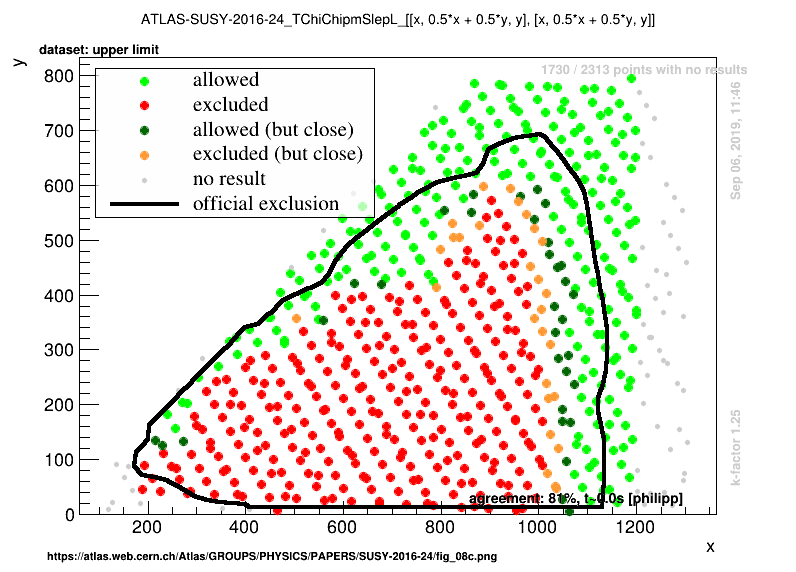
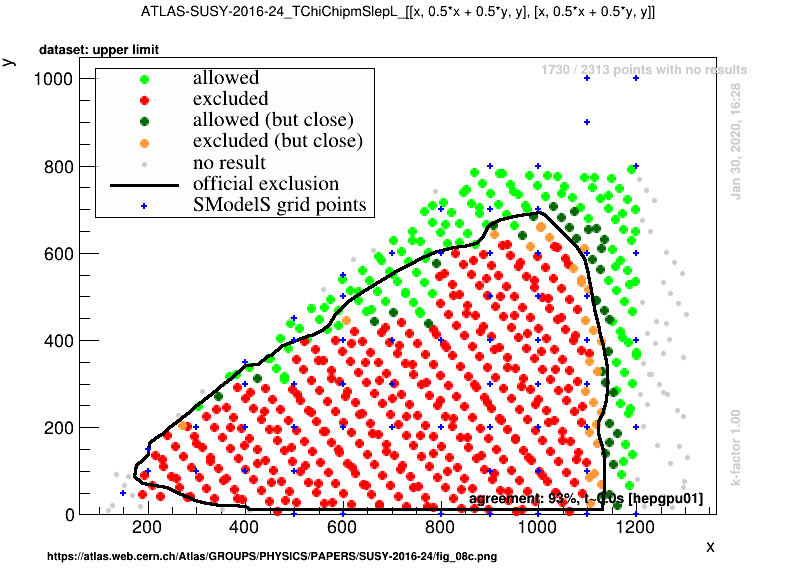
smaller issues

diff --git a/docs/ValidationUgly123phil.md b/docs/ValidationUgly123phil.md
@@ -17,7 +17,7 @@ To [official validation plots](Validation123phil)
 
 ### Run 2 - 13 TeV
  * [ATLAS upper limits](#ATLASupperlimits13): 9 analyses, 30 results
- * [ATLAS efficiency maps](#ATLASefficiencymaps13): 7 analyses, 22 results
+ * [ATLAS efficiency maps](#ATLASefficiencymaps13): 7 analyses, 24 results
 
 ### Run 1 - 8 TeV
 
@@ -43,7 +43,7 @@ To [official validation plots](Validation123phil)
 | | [T2tt](SmsDictionary123phil#T2tt)| 36.1| tbd |<a href="https://smodels.github.io/validation/123phil/13TeV/ATLAS/ATLAS-SUSY-2016-16/validation/T2tt_2EqMassAx_EqMassBy.png"><img src="https://smodels.github.io/validation/123phil/13TeV/ATLAS/ATLAS-SUSY-2016-16/validation/T2tt_2EqMassAx_EqMassBy.png" /></a>  | <img src="https://smodels.github.io/pics/new.png" /> in 1.2.3phil!  |
 | | [T2ttoff](SmsDictionary123phil#T2ttoff)| 36.1| tbd |<a href="https://smodels.github.io/validation/123phil/13TeV/ATLAS/ATLAS-SUSY-2016-16/validation/T2ttoff_2EqMassAx_EqMassBy.png"><img src="https://smodels.github.io/validation/123phil/13TeV/ATLAS/ATLAS-SUSY-2016-16/validation/T2ttoff_2EqMassAx_EqMassBy.png" /></a>  | <img src="https://smodels.github.io/pics/new.png" /> in 1.2.3phil!  |
 | | [T6bbWW](SmsDictionary123phil#T6bbWW)| 36.1| tbd |<a href="https://smodels.github.io/validation/123phil/13TeV/ATLAS/ATLAS-SUSY-2016-16/validation/T6bbWW_2EqMassAx_EqMassBx-10_EqMassCy.png"><img src="https://smodels.github.io/validation/123phil/13TeV/ATLAS/ATLAS-SUSY-2016-16/validation/T6bbWW_2EqMassAx_EqMassBx-10_EqMassCy.png" /></a>  | <img src="https://smodels.github.io/pics/new.png" /> in 1.2.3phil!  |
-| [ATLAS-SUSY-2016-24](https://atlas.web.cern.ch/Atlas/GROUPS/PHYSICS/PAPERS/SUSY-2016-24/)| [TChiChipmSlep](SmsDictionary123phil#TChiChipmSlep)| 36.1| tbd |<a href="https://smodels.github.io/validation/123phil/13TeV/ATLAS/ATLAS-SUSY-2016-24/validation/TChiChipmSlep_2EqMassAx_EqMassB0.5x+0.5y_EqMassCy.png"><img src="https://smodels.github.io/validation/123phil/13TeV/ATLAS/ATLAS-SUSY-2016-24/validation/TChiChipmSlep_2EqMassAx_EqMassB0.5x+0.5y_EqMassCy.png" /></a>  | <img src="https://smodels.github.io/pics/new.png" /> in 1.2.3phil!  |
+| [ATLAS-SUSY-2016-24](https://atlas.web.cern.ch/Atlas/GROUPS/PHYSICS/PAPERS/SUSY-2016-24/)| [TChiChipmSlepL](SmsDictionary123phil#TChiChipmSlepL)| 36.1| tbd |<a href="https://smodels.github.io/validation/123phil/13TeV/ATLAS/ATLAS-SUSY-2016-24/validation/TChiChipmSlepL_2EqMassAx_EqMassB0.5x+0.5y_EqMassCy.png"><img src="https://smodels.github.io/validation/123phil/13TeV/ATLAS/ATLAS-SUSY-2016-24/validation/TChiChipmSlepL_2EqMassAx_EqMassB0.5x+0.5y_EqMassCy.png" /></a>  | <img src="https://smodels.github.io/pics/new.png" /> in 1.2.3phil!  |
 | | [TChiWZ](SmsDictionary123phil#TChiWZ)| 36.1| tbd |<a href="https://smodels.github.io/validation/123phil/13TeV/ATLAS/ATLAS-SUSY-2016-24/validation/TChiWZ_2EqMassAx_EqMassBy.png"><img src="https://smodels.github.io/validation/123phil/13TeV/ATLAS/ATLAS-SUSY-2016-24/validation/TChiWZ_2EqMassAx_EqMassBy.png" /></a>  | <img src="https://smodels.github.io/pics/new.png" /> in 1.2.3phil! [comment](https://smodels.github.io/validation/123phil/13TeV/ATLAS/ATLAS-SUSY-2016-24/validation/TChiWZ.txt) |
 | | [TChipChimSlepSlepAll](SmsDictionary123phil#TChipChimSlepSlepAll)| 36.1| tbd |<a href="https://smodels.github.io/validation/123phil/13TeV/ATLAS/ATLAS-SUSY-2016-24/validation/TChipChimSlepSlepAll_2EqMassAx_EqMassB0.5x+0.5y_EqMassCy.png"><img src="https://smodels.github.io/validation/123phil/13TeV/ATLAS/ATLAS-SUSY-2016-24/validation/TChipChimSlepSlepAll_2EqMassAx_EqMassB0.5x+0.5y_EqMassCy.png" /></a>  | <img src="https://smodels.github.io/pics/new.png" /> in 1.2.3phil!  |
 | | [TSlepSlepAll](SmsDictionary123phil#TSlepSlepAll)| 36.1| tbd |<a href="https://smodels.github.io/validation/123phil/13TeV/ATLAS/ATLAS-SUSY-2016-24/validation/TSlepSlepAll_2EqMassAx_EqMassBy.png"><img src="https://smodels.github.io/validation/123phil/13TeV/ATLAS/ATLAS-SUSY-2016-24/validation/TSlepSlepAll_2EqMassAx_EqMassBy.png" /></a>  | <img src="https://smodels.github.io/pics/new.png" /> in 1.2.3phil!  |
@@ -55,12 +55,12 @@ To [official validation plots](Validation123phil)
 | [ATLAS-SUSY-2017-02](https://atlas.web.cern.ch/Atlas/GROUPS/PHYSICS/PAPERS/SUSY-2017-02/)| [TChiH](SmsDictionary123phil#TChiH)| 36.1| tbd |<a href="https://smodels.github.io/validation/123phil/13TeV/ATLAS/ATLAS-SUSY-2017-02/validation/TChiH_2EqMassAx_EqMassB1.0.png"><img src="https://smodels.github.io/validation/123phil/13TeV/ATLAS/ATLAS-SUSY-2017-02/validation/TChiH_2EqMassAx_EqMassB1.0.png" /></a>  | <img src="https://smodels.github.io/pics/new.png" /> in 1.2.3phil!  |
 | [ATLAS-SUSY-2018-32](https://atlas.web.cern.ch/Atlas/GROUPS/PHYSICS/PAPERS/SUSY-2018-32/)| [TChiWW](SmsDictionary123phil#TChiWW)| 139.0| tbd |<a href="https://smodels.github.io/validation/123phil/13TeV/ATLAS/ATLAS-SUSY-2018-32/validation/TChiWW_2EqMassAx_EqMassBy.png"><img src="https://smodels.github.io/validation/123phil/13TeV/ATLAS/ATLAS-SUSY-2018-32/validation/TChiWW_2EqMassAx_EqMassBy.png" /></a>  | <img src="https://smodels.github.io/pics/new.png" /> in 1.2.3phil!  |
 | | [TChipChimSlepSlepAll](SmsDictionary123phil#TChipChimSlepSlepAll)| 139.0| tbd |<a href="https://smodels.github.io/validation/123phil/13TeV/ATLAS/ATLAS-SUSY-2018-32/validation/TChipChimSlepSlepAll_2EqMassAx_EqMassB0.5x+0.5y_EqMassCy.png"><img src="https://smodels.github.io/validation/123phil/13TeV/ATLAS/ATLAS-SUSY-2018-32/validation/TChipChimSlepSlepAll_2EqMassAx_EqMassB0.5x+0.5y_EqMassCy.png" /></a>  | <img src="https://smodels.github.io/pics/new.png" /> in 1.2.3phil!  |
-| | [TSlepSlep](SmsDictionary123phil#TSlepSlep)| 139.0| tbd |<a href="https://smodels.github.io/validation/123phil/13TeV/ATLAS/ATLAS-SUSY-2018-32/validation/TSlepSlep_2EqMassAx_EqMassBy.png"><img src="https://smodels.github.io/validation/123phil/13TeV/ATLAS/ATLAS-SUSY-2018-32/validation/TSlepSlep_2EqMassAx_EqMassBy.png" /></a>  | <img src="https://smodels.github.io/pics/new.png" /> in 1.2.3phil!  |
+| | [TSlepSlepAll](SmsDictionary123phil#TSlepSlepAll)| 139.0| tbd |<a href="https://smodels.github.io/validation/123phil/13TeV/ATLAS/ATLAS-SUSY-2018-32/validation/TSlepSlepAll_2EqMassAx_EqMassBy.png"><img src="https://smodels.github.io/validation/123phil/13TeV/ATLAS/ATLAS-SUSY-2018-32/validation/TSlepSlepAll_2EqMassAx_EqMassBy.png" /></a>  | <img src="https://smodels.github.io/pics/new.png" /> in 1.2.3phil!  |
 | [ATLAS-SUSY-2019-08](https://atlas.web.cern.ch/Atlas/GROUPS/PHYSICS/PAPERS/SUSY-2019-08/)| [TChiWH](SmsDictionary123phil#TChiWH)| 139.0| tbd |<a href="https://smodels.github.io/validation/123phil/13TeV/ATLAS/ATLAS-SUSY-2019-08/validation/TChiWH_2EqMassAx_EqMassBy.png"><img src="https://smodels.github.io/validation/123phil/13TeV/ATLAS/ATLAS-SUSY-2019-08/validation/TChiWH_2EqMassAx_EqMassBy.png" /></a>  | <img src="https://smodels.github.io/pics/new.png" /> in 1.2.3phil!  |
 
 
 <a name="ATLASefficiencymaps13"></a>
-## ATLAS efficiency maps, 13 TeV: 7 analyses, 22 results total
+## ATLAS efficiency maps, 13 TeV: 7 analyses, 24 results total
 
 | **Result** | **Txname** | **L [1/fb]** | **Validated?** | **Validation plots** | **comment** |
 |------------|------------|--------------|----------------|----------------------|-------------|
@@ -83,8 +83,10 @@ To [official validation plots](Validation123phil)
 | | [TChiWZ](SmsDictionary123phil#TChiWZ)| 36.1| tbd |<a href="https://smodels.github.io/validation/123phil/13TeV/ATLAS/ATLAS-SUSY-2016-24-eff/validation/TChiWZ_2EqMassAx_EqMassBy.png"><img src="https://smodels.github.io/validation/123phil/13TeV/ATLAS/ATLAS-SUSY-2016-24-eff/validation/TChiWZ_2EqMassAx_EqMassBy.png" /></a>  | <img src="https://smodels.github.io/pics/new.png" /> in 1.2.3phil!  |
 | | [TChipChimSlepSlepAll](SmsDictionary123phil#TChipChimSlepSlepAll)| 36.1| tbd |<a href="https://smodels.github.io/validation/123phil/13TeV/ATLAS/ATLAS-SUSY-2016-24-eff/validation/TChipChimSlepSlepAll_2EqMassAx_EqMassB0.5x+0.5y_EqMassCy.png"><img src="https://smodels.github.io/validation/123phil/13TeV/ATLAS/ATLAS-SUSY-2016-24-eff/validation/TChipChimSlepSlepAll_2EqMassAx_EqMassB0.5x+0.5y_EqMassCy.png" /></a>  | <img src="https://smodels.github.io/pics/new.png" /> in 1.2.3phil!  |
 | | [TSlepSlepAll](SmsDictionary123phil#TSlepSlepAll)| 36.1| tbd |<a href="https://smodels.github.io/validation/123phil/13TeV/ATLAS/ATLAS-SUSY-2016-24-eff/validation/TSlepSlepAll_2EqMassAx_EqMassBy.png"><img src="https://smodels.github.io/validation/123phil/13TeV/ATLAS/ATLAS-SUSY-2016-24-eff/validation/TSlepSlepAll_2EqMassAx_EqMassBy.png" /></a>  | <img src="https://smodels.github.io/pics/new.png" /> in 1.2.3phil!  |
-| [ATLAS-SUSY-2016-27](https://atlas.web.cern.ch/Atlas/GROUPS/PHYSICS/PAPERS/SUSY-2016-27/)| [T5Gamma](SmsDictionary123phil#T5Gamma)| 36.1| tbd |<a href="https://smodels.github.io/validation/123phil/13TeV/ATLAS/ATLAS-SUSY-2016-27-eff/validation/T5Gamma_2EqMassAx_EqMassBy_EqMassC1.0.png"><img src="https://smodels.github.io/validation/123phil/13TeV/ATLAS/ATLAS-SUSY-2016-27-eff/validation/T5Gamma_2EqMassAx_EqMassBy_EqMassC1.0.png" /></a>  | <img src="https://smodels.github.io/pics/new.png" /> in 1.2.3phil!  |
+| [ATLAS-SUSY-2016-27](https://atlas.web.cern.ch/Atlas/GROUPS/PHYSICS/PAPERS/SUSY-2016-27/)| [T5ZGamma](SmsDictionary123phil#T5ZGamma)| 36.1| tbd |<a href="https://smodels.github.io/validation/123phil/13TeV/ATLAS/ATLAS-SUSY-2016-27-eff/validation/T5ZGamma_2EqMassAx_EqMassBy_EqMassC1.0.png"><img src="https://smodels.github.io/validation/123phil/13TeV/ATLAS/ATLAS-SUSY-2016-27-eff/validation/T5ZGamma_2EqMassAx_EqMassBy_EqMassC1.0.png" /></a>  | <img src="https://smodels.github.io/pics/new.png" /> in 1.2.3phil!  |
+| | [T6Gamma](SmsDictionary123phil#T6Gamma)| 36.1| tbd |  | <img src="https://smodels.github.io/pics/new.png" /> in 1.2.3phil!  |
+| | [TChipChimGamma](SmsDictionary123phil#TChipChimGamma)| 36.1| tbd |<a href="https://smodels.github.io/validation/123phil/13TeV/ATLAS/ATLAS-SUSY-2016-27-eff/validation/TChipChimGamma_2EqMassAx_EqMassBy_EqMassC1.0.png"><img src="https://smodels.github.io/validation/123phil/13TeV/ATLAS/ATLAS-SUSY-2016-27-eff/validation/TChipChimGamma_2EqMassAx_EqMassBy_EqMassC1.0.png" /></a>  | <img src="https://smodels.github.io/pics/new.png" /> in 1.2.3phil!  |
 | [ATLAS-SUSY-2017-01](https://atlas.web.cern.ch/Atlas/GROUPS/PHYSICS/PAPERS/SUSY-2017-01/)| [TChiWH](SmsDictionary123phil#TChiWH)| 36.1| tbd |<a href="https://smodels.github.io/validation/123phil/13TeV/ATLAS/ATLAS-SUSY-2017-01-eff/validation/TChiWH_2EqMassAx_EqMassBy.png"><img src="https://smodels.github.io/validation/123phil/13TeV/ATLAS/ATLAS-SUSY-2017-01-eff/validation/TChiWH_2EqMassAx_EqMassBy.png" /></a>  | <img src="https://smodels.github.io/pics/new.png" /> in 1.2.3phil! [comment](https://smodels.github.io/validation/123phil/13TeV/ATLAS/ATLAS-SUSY-2017-01-eff/validation/TChiWH.txt) |
 | [ATLAS-SUSY-2018-32](https://atlas.web.cern.ch/Atlas/GROUPS/PHYSICS/PAPERS/SUSY-2018-32/)| [TChiWW](SmsDictionary123phil#TChiWW)| 139.0| tbd |<a href="https://smodels.github.io/validation/123phil/13TeV/ATLAS/ATLAS-SUSY-2018-32-eff/validation/TChiWW_2EqMassAx_EqMassBy.png"><img src="https://smodels.github.io/validation/123phil/13TeV/ATLAS/ATLAS-SUSY-2018-32-eff/validation/TChiWW_2EqMassAx_EqMassBy.png" /></a>  | <img src="https://smodels.github.io/pics/new.png" /> in 1.2.3phil!  |
 
-This page was created Thu Jan 30 12:06:12 2020
+This page was created Fri Jan 31 11:39:01 2020

diff --git a/docs/Validation123phil.md b/docs/Validation123phil.md
@@ -13,14 +13,14 @@ The validation procedure for upper limit maps used here is explained in [arXiv:1
 ## Individual tables
 
 ### Run 2 - 13 TeV
- * [ATLAS upper limits](#ATLASupperlimits13): 9 analyses, 31 results
+ * [ATLAS upper limits](#ATLASupperlimits13): 9 analyses, 30 results
  * [ATLAS efficiency maps](#ATLASefficiencymaps13): 7 analyses, 24 results
 
 ### Run 1 - 8 TeV
 
 
 <a name="ATLASupperlimits13"></a>
-## ATLAS upper limits, 13 TeV: 9 analyses, 31 results total
+## ATLAS upper limits, 13 TeV: 9 analyses, 30 results total
 
 | **Result** | **Txname** | **L [1/fb]** | **Validation plots** | **comment** |
 |------------|------------|--------------|----------------------|-------------|
@@ -40,7 +40,7 @@ The validation procedure for upper limit maps used here is explained in [arXiv:1
 | | [T2tt](SmsDictionary123phil#T2tt)| 36.1|<a href="https://smodels.github.io/validation/123phil/13TeV/ATLAS/ATLAS-SUSY-2016-16/validation/T2tt_2EqMassAx_EqMassBy_pretty.png"><img src="https://smodels.github.io/validation/123phil/13TeV/ATLAS/ATLAS-SUSY-2016-16/validation/T2tt_2EqMassAx_EqMassBy_pretty.png" /></a>  | <img src="https://smodels.github.io/pics/new.png" /> in 1.2.3phil!  |
 | | [T2ttoff](SmsDictionary123phil#T2ttoff)| 36.1|<a href="https://smodels.github.io/validation/123phil/13TeV/ATLAS/ATLAS-SUSY-2016-16/validation/T2ttoff_2EqMassAx_EqMassBy_pretty.png"><img src="https://smodels.github.io/validation/123phil/13TeV/ATLAS/ATLAS-SUSY-2016-16/validation/T2ttoff_2EqMassAx_EqMassBy_pretty.png" /></a>  | <img src="https://smodels.github.io/pics/new.png" /> in 1.2.3phil!  |
 | | [T6bbWW](SmsDictionary123phil#T6bbWW)| 36.1|<a href="https://smodels.github.io/validation/123phil/13TeV/ATLAS/ATLAS-SUSY-2016-16/validation/T6bbWW_2EqMassAx_EqMassBx-10_EqMassCy_pretty.png"><img src="https://smodels.github.io/validation/123phil/13TeV/ATLAS/ATLAS-SUSY-2016-16/validation/T6bbWW_2EqMassAx_EqMassBx-10_EqMassCy_pretty.png" /></a>  | <img src="https://smodels.github.io/pics/new.png" /> in 1.2.3phil!  |
-| [ATLAS-SUSY-2016-24](https://atlas.web.cern.ch/Atlas/GROUPS/PHYSICS/PAPERS/SUSY-2016-24/)| [TChiChipmSlep](SmsDictionary123phil#TChiChipmSlep)| 36.1|<a href="https://smodels.github.io/validation/123phil/13TeV/ATLAS/ATLAS-SUSY-2016-24/validation/TChiChipmSlep_2EqMassAx_EqMassB0.5x+0.5y_EqMassCy_pretty.png"><img src="https://smodels.github.io/validation/123phil/13TeV/ATLAS/ATLAS-SUSY-2016-24/validation/TChiChipmSlep_2EqMassAx_EqMassB0.5x+0.5y_EqMassCy_pretty.png" /></a>  | <img src="https://smodels.github.io/pics/new.png" /> in 1.2.3phil!  |
+| [ATLAS-SUSY-2016-24](https://atlas.web.cern.ch/Atlas/GROUPS/PHYSICS/PAPERS/SUSY-2016-24/)| [TChiChipmSlepL](SmsDictionary123phil#TChiChipmSlepL)| 36.1|<a href="https://smodels.github.io/validation/123phil/13TeV/ATLAS/ATLAS-SUSY-2016-24/validation/TChiChipmSlepL_2EqMassAx_EqMassB0.5x+0.5y_EqMassCy_pretty.png"><img src="https://smodels.github.io/validation/123phil/13TeV/ATLAS/ATLAS-SUSY-2016-24/validation/TChiChipmSlepL_2EqMassAx_EqMassB0.5x+0.5y_EqMassCy_pretty.png" /></a>  | <img src="https://smodels.github.io/pics/new.png" /> in 1.2.3phil!  |
 | | [TChiWZ](SmsDictionary123phil#TChiWZ)| 36.1|<a href="https://smodels.github.io/validation/123phil/13TeV/ATLAS/ATLAS-SUSY-2016-24/validation/TChiWZ_2EqMassAx_EqMassBy_pretty.png"><img src="https://smodels.github.io/validation/123phil/13TeV/ATLAS/ATLAS-SUSY-2016-24/validation/TChiWZ_2EqMassAx_EqMassBy_pretty.png" /></a>  | <img src="https://smodels.github.io/pics/new.png" /> in 1.2.3phil! [comment](https://smodels.github.io/validation/123phil/13TeV/ATLAS/ATLAS-SUSY-2016-24/validation/TChiWZ.txt) |
 | | [TChipChimSlepSlepAll](SmsDictionary123phil#TChipChimSlepSlepAll)| 36.1|<a href="https://smodels.github.io/validation/123phil/13TeV/ATLAS/ATLAS-SUSY-2016-24/validation/TChipChimSlepSlepAll_2EqMassAx_EqMassB0.5x+0.5y_EqMassCy_pretty.png"><img src="https://smodels.github.io/validation/123phil/13TeV/ATLAS/ATLAS-SUSY-2016-24/validation/TChipChimSlepSlepAll_2EqMassAx_EqMassB0.5x+0.5y_EqMassCy_pretty.png" /></a>  | <img src="https://smodels.github.io/pics/new.png" /> in 1.2.3phil!  |
 | | [TSlepSlepAll](SmsDictionary123phil#TSlepSlepAll)| 36.1|<a href="https://smodels.github.io/validation/123phil/13TeV/ATLAS/ATLAS-SUSY-2016-24/validation/TSlepSlepAll_2EqMassAx_EqMassBy_pretty.png"><img src="https://smodels.github.io/validation/123phil/13TeV/ATLAS/ATLAS-SUSY-2016-24/validation/TSlepSlepAll_2EqMassAx_EqMassBy_pretty.png" /></a>  | <img src="https://smodels.github.io/pics/new.png" /> in 1.2.3phil!  |
@@ -49,11 +49,10 @@ The validation procedure for upper limit maps used here is explained in [arXiv:1
 | | [T6Gamma](SmsDictionary123phil#T6Gamma)| 36.1|<a href="https://smodels.github.io/validation/123phil/13TeV/ATLAS/ATLAS-SUSY-2016-27/validation/T6Gamma_2EqMassAx_EqMassBy_EqMassC1.0_pretty.png"><img src="https://smodels.github.io/validation/123phil/13TeV/ATLAS/ATLAS-SUSY-2016-27/validation/T6Gamma_2EqMassAx_EqMassBy_EqMassC1.0_pretty.png" /></a>  | <img src="https://smodels.github.io/pics/new.png" /> in 1.2.3phil!  |
 | | [TChipChimGamma](SmsDictionary123phil#TChipChimGamma)| 36.1|<a href="https://smodels.github.io/validation/123phil/13TeV/ATLAS/ATLAS-SUSY-2016-27/validation/TChipChimGamma_2EqMassAx_EqMassBy_EqMassC1.0_pretty.png"><img src="https://smodels.github.io/validation/123phil/13TeV/ATLAS/ATLAS-SUSY-2016-27/validation/TChipChimGamma_2EqMassAx_EqMassBy_EqMassC1.0_pretty.png" /></a>  | <img src="https://smodels.github.io/pics/new.png" /> in 1.2.3phil!  |
 | [ATLAS-SUSY-2017-01](https://atlas.web.cern.ch/Atlas/GROUPS/PHYSICS/PAPERS/SUSY-2017-01/)| [TChiWH](SmsDictionary123phil#TChiWH)| 36.1|<a href="https://smodels.github.io/validation/123phil/13TeV/ATLAS/ATLAS-SUSY-2017-01/validation/TChiWH_2EqMassAx_EqMassBy_pretty.png"><img src="https://smodels.github.io/validation/123phil/13TeV/ATLAS/ATLAS-SUSY-2017-01/validation/TChiWH_2EqMassAx_EqMassBy_pretty.png" /></a>  | <img src="https://smodels.github.io/pics/new.png" /> in 1.2.3phil!  |
-| [ATLAS-SUSY-2017-02](https://atlas.web.cern.ch/Atlas/GROUPS/PHYSICS/PAPERS/SUSY-2017-02/)| [TChiH](SmsDictionary123phil#TChiH)| 36.1|<a href="https://smodels.github.io/validation/123phil/13TeV/ATLAS/ATLAS-SUSY-2017-02/validation/TChiH_2EqMassAx_EqMassB1.0_pretty.png"><img src="https://smodels.github.io/validation/123phil/13TeV/ATLAS/ATLAS-SUSY-2017-02/validation/TChiH_2EqMassAx_EqMassB1.0_pretty.png" /></a>  | <img src="https://smodels.github.io/pics/new.png" /> in 1.2.3phil!  |
+| [ATLAS-SUSY-2017-02](https://atlas.web.cern.ch/Atlas/GROUPS/PHYSICS/PAPERS/SUSY-2017-02/)| [TChiH](SmsDictionary123phil#TChiH)| 36.1|<a href="https://smodels.github.io/validation/123phil/13TeV/ATLAS/ATLAS-SUSY-2017-02/validation/TChiH_2EqMassAx_EqMassB1.0.png"><img src="https://smodels.github.io/validation/123phil/13TeV/ATLAS/ATLAS-SUSY-2017-02/validation/TChiH_2EqMassAx_EqMassB1.0.png" /></a>  | <img src="https://smodels.github.io/pics/new.png" /> in 1.2.3phil!  |
 | [ATLAS-SUSY-2018-32](https://atlas.web.cern.ch/Atlas/GROUPS/PHYSICS/PAPERS/SUSY-2018-32/)| [TChiWW](SmsDictionary123phil#TChiWW)| 139.0|<a href="https://smodels.github.io/validation/123phil/13TeV/ATLAS/ATLAS-SUSY-2018-32/validation/TChiWW_2EqMassAx_EqMassBy_pretty.png"><img src="https://smodels.github.io/validation/123phil/13TeV/ATLAS/ATLAS-SUSY-2018-32/validation/TChiWW_2EqMassAx_EqMassBy_pretty.png" /></a>  | <img src="https://smodels.github.io/pics/new.png" /> in 1.2.3phil!  |
 | | [TChipChimSlepSlepAll](SmsDictionary123phil#TChipChimSlepSlepAll)| 139.0|<a href="https://smodels.github.io/validation/123phil/13TeV/ATLAS/ATLAS-SUSY-2018-32/validation/TChipChimSlepSlepAll_2EqMassAx_EqMassB0.5x+0.5y_EqMassCy_pretty.png"><img src="https://smodels.github.io/validation/123phil/13TeV/ATLAS/ATLAS-SUSY-2018-32/validation/TChipChimSlepSlepAll_2EqMassAx_EqMassB0.5x+0.5y_EqMassCy_pretty.png" /></a>  | <img src="https://smodels.github.io/pics/new.png" /> in 1.2.3phil!  |
-| | [TSlepSlep](SmsDictionary123phil#TSlepSlep)| 139.0|<a href="https://smodels.github.io/validation/123phil/13TeV/ATLAS/ATLAS-SUSY-2018-32/validation/TSlepSlep_2EqMassAx_EqMassBy_pretty.png"><img src="https://smodels.github.io/validation/123phil/13TeV/ATLAS/ATLAS-SUSY-2018-32/validation/TSlepSlep_2EqMassAx_EqMassBy_pretty.png" /></a>  | <img src="https://smodels.github.io/pics/new.png" /> in 1.2.3phil!  |
-| | [TSlepSlepAll](SmsDictionary123phil#TSlepSlepAll)| 139.0|  | <img src="https://smodels.github.io/pics/new.png" /> in 1.2.3phil!  |
+| | [TSlepSlepAll](SmsDictionary123phil#TSlepSlepAll)| 139.0|<a href="https://smodels.github.io/validation/123phil/13TeV/ATLAS/ATLAS-SUSY-2018-32/validation/TSlepSlepAll_2EqMassAx_EqMassBy_pretty.png"><img src="https://smodels.github.io/validation/123phil/13TeV/ATLAS/ATLAS-SUSY-2018-32/validation/TSlepSlepAll_2EqMassAx_EqMassBy_pretty.png" /></a>  | <img src="https://smodels.github.io/pics/new.png" /> in 1.2.3phil!  |
 | [ATLAS-SUSY-2019-08](https://atlas.web.cern.ch/Atlas/GROUPS/PHYSICS/PAPERS/SUSY-2019-08/)| [TChiWH](SmsDictionary123phil#TChiWH)| 139.0|<a href="https://smodels.github.io/validation/123phil/13TeV/ATLAS/ATLAS-SUSY-2019-08/validation/TChiWH_2EqMassAx_EqMassBy_pretty.png"><img src="https://smodels.github.io/validation/123phil/13TeV/ATLAS/ATLAS-SUSY-2019-08/validation/TChiWH_2EqMassAx_EqMassBy_pretty.png" /></a>  | <img src="https://smodels.github.io/pics/new.png" /> in 1.2.3phil!  |
 
 
@@ -87,4 +86,4 @@ The validation procedure for upper limit maps used here is explained in [arXiv:1
 | [ATLAS-SUSY-2017-01](https://atlas.web.cern.ch/Atlas/GROUPS/PHYSICS/PAPERS/SUSY-2017-01/)| [TChiWH](SmsDictionary123phil#TChiWH)| 36.1|<a href="https://smodels.github.io/validation/123phil/13TeV/ATLAS/ATLAS-SUSY-2017-01-eff/validation/TChiWH_2EqMassAx_EqMassBy_pretty.png"><img src="https://smodels.github.io/validation/123phil/13TeV/ATLAS/ATLAS-SUSY-2017-01-eff/validation/TChiWH_2EqMassAx_EqMassBy_pretty.png" /></a>  | <img src="https://smodels.github.io/pics/new.png" /> in 1.2.3phil! [comment](https://smodels.github.io/validation/123phil/13TeV/ATLAS/ATLAS-SUSY-2017-01-eff/validation/TChiWH.txt) |
 | [ATLAS-SUSY-2018-32](https://atlas.web.cern.ch/Atlas/GROUPS/PHYSICS/PAPERS/SUSY-2018-32/)| [TChiWW](SmsDictionary123phil#TChiWW)| 139.0|<a href="https://smodels.github.io/validation/123phil/13TeV/ATLAS/ATLAS-SUSY-2018-32-eff/validation/TChiWW_2EqMassAx_EqMassBy_pretty.png"><img src="https://smodels.github.io/validation/123phil/13TeV/ATLAS/ATLAS-SUSY-2018-32-eff/validation/TChiWW_2EqMassAx_EqMassBy_pretty.png" /></a>  | <img src="https://smodels.github.io/pics/new.png" /> in 1.2.3phil!  |
 
-This page was created Thu Jan 30 14:06:44 2020
+This page was created Fri Jan 31 11:38:50 2020

diff --git a/docs/SmsDictionary123phil.md b/docs/SmsDictionary123phil.md
@@ -18,11 +18,11 @@ There is also a [ListOfAnalyses123phil](https://smodels.github.io/docs/ListOfAna
 | 8 | <a name="T6WWoffleft"></a>**T6WWoffl-<br>eft**<br> | `[[[q],[q,q]],[[q],[q,q]]]`<BR>`(MET,MET)` | ![T6WWoffleft](../feyn/straight/T6WWoffleft.png) | [ATLAS-SUSY-2016-07](ListOfAnalyses123phil#ATLAS-SUSY-2016-07)|
 | 9 | <a name="T6bbWW"></a>**T6bbWW**<br> | `[[[b],[W]],[[b],[W]]]`<BR>`(MET,MET)` | ![T6bbWW](../feyn/straight/T6bbWW.png) | [ATLAS-SUSY-2016-16](ListOfAnalyses123phil#ATLAS-SUSY-2016-16)|
 | 10 | <a name="TChiChipmSlep"></a>**TChiChipm-<br>Slep**<br> | `[[[L+],[L-]],[[L],[nu]]]+`<BR>`[[[L+],[L-]],[[nu],[L]]]`<BR>`(MET,MET)` | ![TChiChipmSlep](../feyn/straight/TChiChipmSlep.png) | [ATLAS-SUSY-2016-24](ListOfAnalyses123phil#ATLAS-SUSY-2016-24)|
-| 11 | <a name="TChiH"></a>**TChiH**<br> | `[[[Z]],[[Z]]]+`<BR>`[[[h]],[[h]]]`<BR>`(MET,MET)` | ![TChiH](../feyn/straight/TChiH.png) | [ATLAS-SUSY-2017-02](ListOfAnalyses123phil#ATLAS-SUSY-2017-02)|
-| 12 | <a name="TChiWH"></a>**TChiWH**<br> | `[[[W]],[[h]]]`<BR>`(MET,MET)` | ![TChiWH](../feyn/straight/TChiWH.png) | [ATLAS-SUSY-2017-01](ListOfAnalyses123phil#ATLAS-SUSY-2017-01)<BR>[ATLAS-SUSY-2019-08](ListOfAnalyses123phil#ATLAS-SUSY-2019-08)|
-| 13 | <a name="TChiWW"></a>**TChiWW**<br> | `[[[W]],[[W]]]`<BR>`(MET,MET)` | ![TChiWW](../feyn/straight/TChiWW.png) | [ATLAS-SUSY-2018-32](ListOfAnalyses123phil#ATLAS-SUSY-2018-32)|
-| 14 | <a name="TChiWZ"></a>**TChiWZ**<br> | `[[[W]],[[Z]]]`<BR>`(MET,MET)` | ![TChiWZ](../feyn/straight/TChiWZ.png) | [ATLAS-SUSY-2016-24](ListOfAnalyses123phil#ATLAS-SUSY-2016-24)|
-| 15 | <a name="TChipChimGamma"></a>**TChipChi-<br>mGamma**<br> | `[[[W],[y]],[[Z],[y]]]+`<BR>`[[[W],[y]],[[W],[y]]]+`<BR>`[[[W],[y]],[[h],[y]]]`<BR>`(MET,MET)` | ![TChipChimGamma](../feyn/straight/TChipChimGamma.png) | [ATLAS-SUSY-2016-27](ListOfAnalyses123phil#ATLAS-SUSY-2016-27)|
-| 16 | <a name="TChipChimSlepSlepAll"></a>**TChipChim-<br>SlepSlepAll**<br> | `[[[nu],[L+]],[[nu],[L-]]]`<BR>`(MET,MET)` | ![TChipChimSlepSlepAll](../feyn/straight/TChipChimSlepSlepAll.png) | [ATLAS-SUSY-2016-24](ListOfAnalyses123phil#ATLAS-SUSY-2016-24)<BR>[ATLAS-SUSY-2018-32](ListOfAnalyses123phil#ATLAS-SUSY-2018-32)|
-| 17 | <a name="TSlepSlep"></a>**TSlepSlep**<br> | `[[[l]],[[l]]]`<BR>`(MET,MET)` | ![TSlepSlep](../feyn/straight/TSlepSlep.png) | [ATLAS-SUSY-2018-32](ListOfAnalyses123phil#ATLAS-SUSY-2018-32)|
-| 18 | <a name="TSlepSlepAll"></a>**TSlepSle-<br>pAll**<br> | `[[[l]],[[l]]]`<BR>`(MET,MET);`<BR>`[[[L+]],[[L-]]]`<BR>`(MET,MET)` | ![TSlepSlepAll](../feyn/straight/TSlepSlepAll.png) | [ATLAS-SUSY-2016-24](ListOfAnalyses123phil#ATLAS-SUSY-2016-24)<BR>[ATLAS-SUSY-2018-32](ListOfAnalyses123phil#ATLAS-SUSY-2018-32)|
+| 11 | <a name="TChiChipmSlepL"></a>**TChiChipm-<br>SlepL**<br> | `[[[L+],[L-]],[[L],[nu]]]+`<BR>`[[[L+],[L-]],[[nu],[L]]]+`<BR>`[[[L-],[L+]],[[L],[nu]]]+`<BR>`[[[L-],[L+]],[[nu],[L]]]`<BR>`(MET,MET)` | ![TChiChipmSlepL](../feyn/straight/TChiChipmSlepL.png) | [ATLAS-SUSY-2016-24](ListOfAnalyses123phil#ATLAS-SUSY-2016-24)|
+| 12 | <a name="TChiH"></a>**TChiH**<br> | `[[[Z]],[[Z]]]+`<BR>`[[[h]],[[h]]]`<BR>`(MET,MET)` | ![TChiH](../feyn/straight/TChiH.png) | [ATLAS-SUSY-2017-02](ListOfAnalyses123phil#ATLAS-SUSY-2017-02)|
+| 13 | <a name="TChiWH"></a>**TChiWH**<br> | `[[[W]],[[h]]]`<BR>`(MET,MET)` | ![TChiWH](../feyn/straight/TChiWH.png) | [ATLAS-SUSY-2017-01](ListOfAnalyses123phil#ATLAS-SUSY-2017-01)<BR>[ATLAS-SUSY-2019-08](ListOfAnalyses123phil#ATLAS-SUSY-2019-08)|
+| 14 | <a name="TChiWW"></a>**TChiWW**<br> | `[[[W]],[[W]]]`<BR>`(MET,MET)` | ![TChiWW](../feyn/straight/TChiWW.png) | [ATLAS-SUSY-2018-32](ListOfAnalyses123phil#ATLAS-SUSY-2018-32)|
+| 15 | <a name="TChiWZ"></a>**TChiWZ**<br> | `[[[W]],[[Z]]]`<BR>`(MET,MET)` | ![TChiWZ](../feyn/straight/TChiWZ.png) | [ATLAS-SUSY-2016-24](ListOfAnalyses123phil#ATLAS-SUSY-2016-24)|
+| 16 | <a name="TChipChimGamma"></a>**TChipChi-<br>mGamma**<br> | `[[[W],[y]],[[Z],[y]]]+`<BR>`[[[W],[y]],[[W],[y]]]+`<BR>`[[[W],[y]],[[h],[y]]]`<BR>`(MET,MET)` | ![TChipChimGamma](../feyn/straight/TChipChimGamma.png) | [ATLAS-SUSY-2016-27](ListOfAnalyses123phil#ATLAS-SUSY-2016-27)|
+| 17 | <a name="TChipChimSlepSlepAll"></a>**TChipChim-<br>SlepSlepAll**<br> | `[[[nu],[L+]],[[nu],[L-]]]`<BR>`(MET,MET)` | ![TChipChimSlepSlepAll](../feyn/straight/TChipChimSlepSlepAll.png) | [ATLAS-SUSY-2016-24](ListOfAnalyses123phil#ATLAS-SUSY-2016-24)<BR>[ATLAS-SUSY-2018-32](ListOfAnalyses123phil#ATLAS-SUSY-2018-32)|
+| 18 | <a name="TSlepSlepAll"></a>**TSlepSle-<br>pAll**<br> | `[[[L+]],[[L-]]]`<BR>`(MET,MET);`<BR>`[[[l]],[[l]]]`<BR>`(MET,MET)` | ![TSlepSlepAll](../feyn/straight/TSlepSlepAll.png) | [ATLAS-SUSY-2016-24](ListOfAnalyses123phil#ATLAS-SUSY-2016-24)<BR>[ATLAS-SUSY-2018-32](ListOfAnalyses123phil#ATLAS-SUSY-2018-32)|

diff --git a/docs/ListOfAnalyses123philWithSuperseded.md b/docs/ListOfAnalyses123philWithSuperseded.md
@@ -2,13 +2,13 @@
 
 # List Of Analyses 1.2.3phil (including superseded results)
 List of analyses and topologies in the SMS results database,
-comprising 157 individual maps from 113 distinct signal regions, 18 different SMS topologies, from a total of 9 analyses.
+comprising 156 individual maps from 113 distinct signal regions, 18 different SMS topologies, from a total of 9 analyses.
 The list has been created from the database version `1.2.3phil`.
 Results from FastLim are included. There is also an  [sms dictionary](SmsDictionary123phil) and a [validation page](Validation123phil).
 Link to list of results [without superseded results](ListOfAnalyses123phil).
     ## Individual tables
 ### Run 2 - 13 TeV
- * [ATLAS upper limits](#ATLASupperlimits13): 9  analyses, 24  results
+ * [ATLAS upper limits](#ATLASupperlimits13): 9  analyses, 23  results
  * [ATLAS efficiency maps](#ATLASefficiencymaps13): 7  analyses, 16  results
 ### Run 1 - 8 TeV
 
@@ -21,11 +21,11 @@ Link to list of results [without superseded results](ListOfAnalyses123phil).
 | [ATLAS-SUSY-2016-07](https://atlas.web.cern.ch/Atlas/GROUPS/PHYSICS/PAPERS/SUSY-2016-07/)<a name="ATLAS-SUSY-2016-07"></a> | hadronic jets + MET | 36.1 | [T5WWoff](SmsDictionary123phil#T5WWoff), [T6WWoffleft](SmsDictionary123phil#T6WWoffleft) | | |
 | [ATLAS-SUSY-2016-15](https://atlas.web.cern.ch/Atlas/GROUPS/PHYSICS/PAPERS/SUSY-2016-15/)<a name="ATLAS-SUSY-2016-15"></a> | stop to lsp + MET | 36.1 | [T2bbffff](SmsDictionary123phil#T2bbffff), [T2tt](SmsDictionary123phil#T2tt), [T2ttoff](SmsDictionary123phil#T2ttoff) | | |
 | [ATLAS-SUSY-2016-16](https://atlas.web.cern.ch/Atlas/GROUPS/PHYSICS/PAPERS/SUSY-2016-16/)<a name="ATLAS-SUSY-2016-16"></a> | stop to lsp + MET | 36.1 | [T2bbffff](SmsDictionary123phil#T2bbffff), [T2tt](SmsDictionary123phil#T2tt), [T2ttoff](SmsDictionary123phil#T2ttoff), [T6bbWW](SmsDictionary123phil#T6bbWW) | | |
-| [ATLAS-SUSY-2016-24](https://atlas.web.cern.ch/Atlas/GROUPS/PHYSICS/PAPERS/SUSY-2016-24/)<a name="ATLAS-SUSY-2016-24"></a> | 2+ leptons (e,mu) + jets + Etmiss | 36.1 | [TChiChipmSlep](SmsDictionary123phil#TChiChipmSlep), [TChiWZ](SmsDictionary123phil#TChiWZ), [TChipChimSlepSlepAll](SmsDictionary123phil#TChipChimSlepSlepAll), [TSlepSlepAll](SmsDictionary123phil#TSlepSlepAll) | | |
+| [ATLAS-SUSY-2016-24](https://atlas.web.cern.ch/Atlas/GROUPS/PHYSICS/PAPERS/SUSY-2016-24/)<a name="ATLAS-SUSY-2016-24"></a> | 2+ leptons (e,mu) + jets + Etmiss | 36.1 | [TChiChipmSlepL](SmsDictionary123phil#TChiChipmSlepL), [TChiWZ](SmsDictionary123phil#TChiWZ), [TChipChimSlepSlepAll](SmsDictionary123phil#TChipChimSlepSlepAll), [TSlepSlepAll](SmsDictionary123phil#TSlepSlepAll) | | |
 | [ATLAS-SUSY-2016-27](https://atlas.web.cern.ch/Atlas/GROUPS/PHYSICS/PAPERS/SUSY-2016-27/)<a name="ATLAS-SUSY-2016-27"></a> |  | 36.1 | [T5Gamma](SmsDictionary123phil#T5Gamma), [T5ZGamma](SmsDictionary123phil#T5ZGamma), [T6Gamma](SmsDictionary123phil#T6Gamma), [TChipChimGamma](SmsDictionary123phil#TChipChimGamma) | | |
 | [ATLAS-SUSY-2017-01](https://atlas.web.cern.ch/Atlas/GROUPS/PHYSICS/PAPERS/SUSY-2017-01/)<a name="ATLAS-SUSY-2017-01"></a> | EWK WH(bb) + MET | 36.1 | [TChiWH](SmsDictionary123phil#TChiWH) | | |
 | [ATLAS-SUSY-2017-02](https://atlas.web.cern.ch/Atlas/GROUPS/PHYSICS/PAPERS/SUSY-2017-02/)<a name="ATLAS-SUSY-2017-02"></a> | 0L + jets + Etmiss | 36.1 | [TChiH](SmsDictionary123phil#TChiH) | | |
-| [ATLAS-SUSY-2018-32](https://atlas.web.cern.ch/Atlas/GROUPS/PHYSICS/PAPERS/SUSY-2018-32/)<a name="ATLAS-SUSY-2018-32"></a> | 2 leptons + MET | 139.0 | [TChiWW](SmsDictionary123phil#TChiWW), [TChipChimSlepSlepAll](SmsDictionary123phil#TChipChimSlepSlepAll), [TSlepSlep](SmsDictionary123phil#TSlepSlep), [TSlepSlepAll](SmsDictionary123phil#TSlepSlepAll) | | |
+| [ATLAS-SUSY-2018-32](https://atlas.web.cern.ch/Atlas/GROUPS/PHYSICS/PAPERS/SUSY-2018-32/)<a name="ATLAS-SUSY-2018-32"></a> | 2 leptons + MET | 139.0 | [TChiWW](SmsDictionary123phil#TChiWW), [TChipChimSlepSlepAll](SmsDictionary123phil#TChipChimSlepSlepAll), [TSlepSlepAll](SmsDictionary123phil#TSlepSlepAll) | | |
 | [ATLAS-SUSY-2019-08](https://atlas.web.cern.ch/Atlas/GROUPS/PHYSICS/PAPERS/SUSY-2019-08/)<a name="ATLAS-SUSY-2019-08"></a> | l + higgs + MET | 139.0 | [TChiWH](SmsDictionary123phil#TChiWH) | | |
 
 <a name="ATLASefficiencymaps13"></a>

diff --git a/docs/ListOfAnalyses123phil.md b/docs/ListOfAnalyses123phil.md
@@ -2,13 +2,13 @@
 
 # List Of Analyses 1.2.3phil 
 List of analyses and topologies in the SMS results database,
-comprising 157 individual maps from 113 distinct signal regions, 18 different SMS topologies, from a total of 9 analyses.
+comprising 156 individual maps from 113 distinct signal regions, 18 different SMS topologies, from a total of 9 analyses.
 The list has been created from the database version `1.2.3phil`.
 Results from FastLim are included. There is also an  [sms dictionary](SmsDictionary123phil) and a [validation page](Validation123phil).
 Link to list of results [including superseded results](ListOfAnalyses123philWithSuperseded).
     ## Individual tables
 ### Run 2 - 13 TeV
- * [ATLAS upper limits](#ATLASupperlimits13): 9  analyses, 24  results
+ * [ATLAS upper limits](#ATLASupperlimits13): 9  analyses, 23  results
  * [ATLAS efficiency maps](#ATLASefficiencymaps13): 7  analyses, 16  results
 ### Run 1 - 8 TeV
 
@@ -21,11 +21,11 @@ Link to list of results [including superseded results](ListOfAnalyses123philWith
 | [ATLAS-SUSY-2016-07](https://atlas.web.cern.ch/Atlas/GROUPS/PHYSICS/PAPERS/SUSY-2016-07/)<a name="ATLAS-SUSY-2016-07"></a> | hadronic jets + MET | 36.1 | [T5WWoff](SmsDictionary123phil#T5WWoff), [T6WWoffleft](SmsDictionary123phil#T6WWoffleft) | |
 | [ATLAS-SUSY-2016-15](https://atlas.web.cern.ch/Atlas/GROUPS/PHYSICS/PAPERS/SUSY-2016-15/)<a name="ATLAS-SUSY-2016-15"></a> | stop to lsp + MET | 36.1 | [T2bbffff](SmsDictionary123phil#T2bbffff), [T2tt](SmsDictionary123phil#T2tt), [T2ttoff](SmsDictionary123phil#T2ttoff) | |
 | [ATLAS-SUSY-2016-16](https://atlas.web.cern.ch/Atlas/GROUPS/PHYSICS/PAPERS/SUSY-2016-16/)<a name="ATLAS-SUSY-2016-16"></a> | stop to lsp + MET | 36.1 | [T2bbffff](SmsDictionary123phil#T2bbffff), [T2tt](SmsDictionary123phil#T2tt), [T2ttoff](SmsDictionary123phil#T2ttoff), [T6bbWW](SmsDictionary123phil#T6bbWW) | |
-| [ATLAS-SUSY-2016-24](https://atlas.web.cern.ch/Atlas/GROUPS/PHYSICS/PAPERS/SUSY-2016-24/)<a name="ATLAS-SUSY-2016-24"></a> | 2+ leptons (e,mu) + jets + Etmiss | 36.1 | [TChiChipmSlep](SmsDictionary123phil#TChiChipmSlep), [TChiWZ](SmsDictionary123phil#TChiWZ), [TChipChimSlepSlepAll](SmsDictionary123phil#TChipChimSlepSlepAll), [TSlepSlepAll](SmsDictionary123phil#TSlepSlepAll) | |
+| [ATLAS-SUSY-2016-24](https://atlas.web.cern.ch/Atlas/GROUPS/PHYSICS/PAPERS/SUSY-2016-24/)<a name="ATLAS-SUSY-2016-24"></a> | 2+ leptons (e,mu) + jets + Etmiss | 36.1 | [TChiChipmSlepL](SmsDictionary123phil#TChiChipmSlepL), [TChiWZ](SmsDictionary123phil#TChiWZ), [TChipChimSlepSlepAll](SmsDictionary123phil#TChipChimSlepSlepAll), [TSlepSlepAll](SmsDictionary123phil#TSlepSlepAll) | |
 | [ATLAS-SUSY-2016-27](https://atlas.web.cern.ch/Atlas/GROUPS/PHYSICS/PAPERS/SUSY-2016-27/)<a name="ATLAS-SUSY-2016-27"></a> |  | 36.1 | [T5Gamma](SmsDictionary123phil#T5Gamma), [T5ZGamma](SmsDictionary123phil#T5ZGamma), [T6Gamma](SmsDictionary123phil#T6Gamma), [TChipChimGamma](SmsDictionary123phil#TChipChimGamma) | |
 | [ATLAS-SUSY-2017-01](https://atlas.web.cern.ch/Atlas/GROUPS/PHYSICS/PAPERS/SUSY-2017-01/)<a name="ATLAS-SUSY-2017-01"></a> | EWK WH(bb) + MET | 36.1 | [TChiWH](SmsDictionary123phil#TChiWH) | |
 | [ATLAS-SUSY-2017-02](https://atlas.web.cern.ch/Atlas/GROUPS/PHYSICS/PAPERS/SUSY-2017-02/)<a name="ATLAS-SUSY-2017-02"></a> | 0L + jets + Etmiss | 36.1 | [TChiH](SmsDictionary123phil#TChiH) | |
-| [ATLAS-SUSY-2018-32](https://atlas.web.cern.ch/Atlas/GROUPS/PHYSICS/PAPERS/SUSY-2018-32/)<a name="ATLAS-SUSY-2018-32"></a> | 2 leptons + MET | 139.0 | [TChiWW](SmsDictionary123phil#TChiWW), [TChipChimSlepSlepAll](SmsDictionary123phil#TChipChimSlepSlepAll), [TSlepSlep](SmsDictionary123phil#TSlepSlep), [TSlepSlepAll](SmsDictionary123phil#TSlepSlepAll) | |
+| [ATLAS-SUSY-2018-32](https://atlas.web.cern.ch/Atlas/GROUPS/PHYSICS/PAPERS/SUSY-2018-32/)<a name="ATLAS-SUSY-2018-32"></a> | 2 leptons + MET | 139.0 | [TChiWW](SmsDictionary123phil#TChiWW), [TChipChimSlepSlepAll](SmsDictionary123phil#TChipChimSlepSlepAll), [TSlepSlepAll](SmsDictionary123phil#TSlepSlepAll) | |
 | [ATLAS-SUSY-2019-08](https://atlas.web.cern.ch/Atlas/GROUPS/PHYSICS/PAPERS/SUSY-2019-08/)<a name="ATLAS-SUSY-2019-08"></a> | l + higgs + MET | 139.0 | [TChiWH](SmsDictionary123phil#TChiWH) | |
 
 <a name="ATLASefficiencymaps13"></a>
